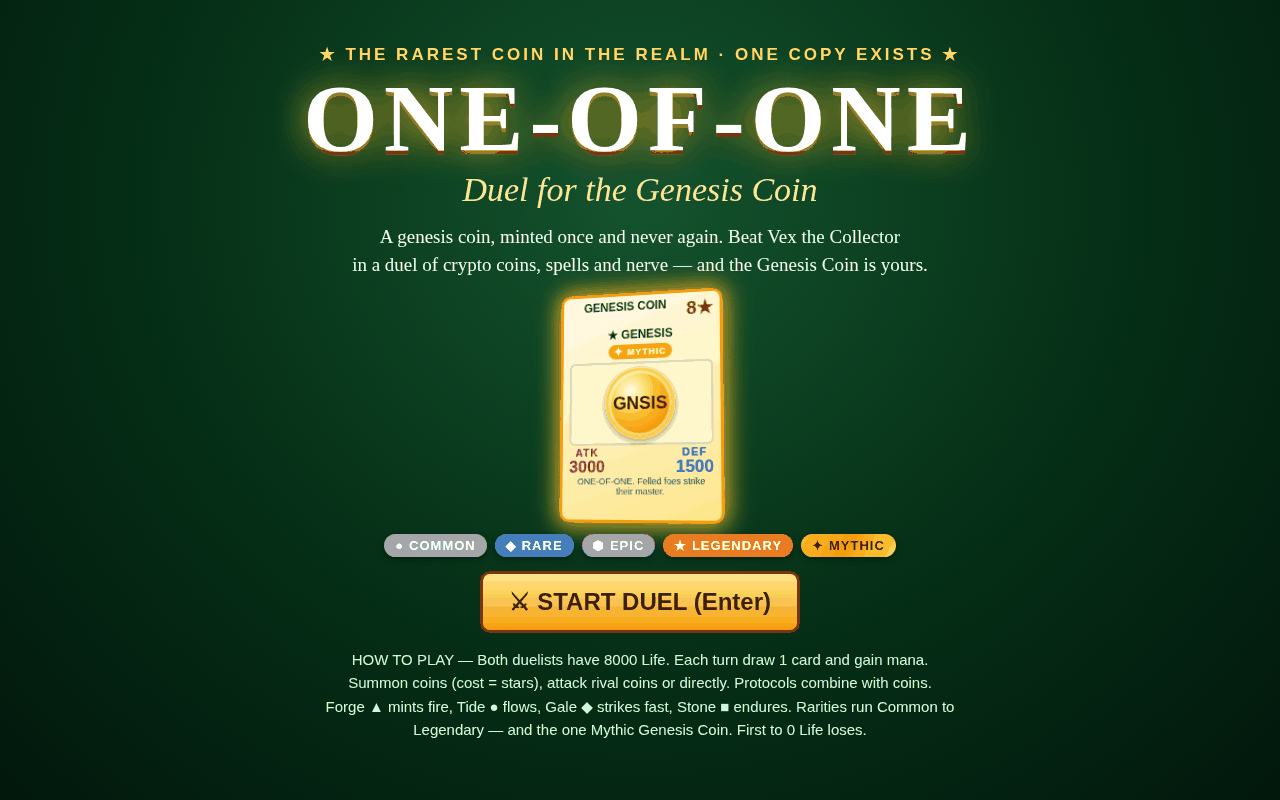
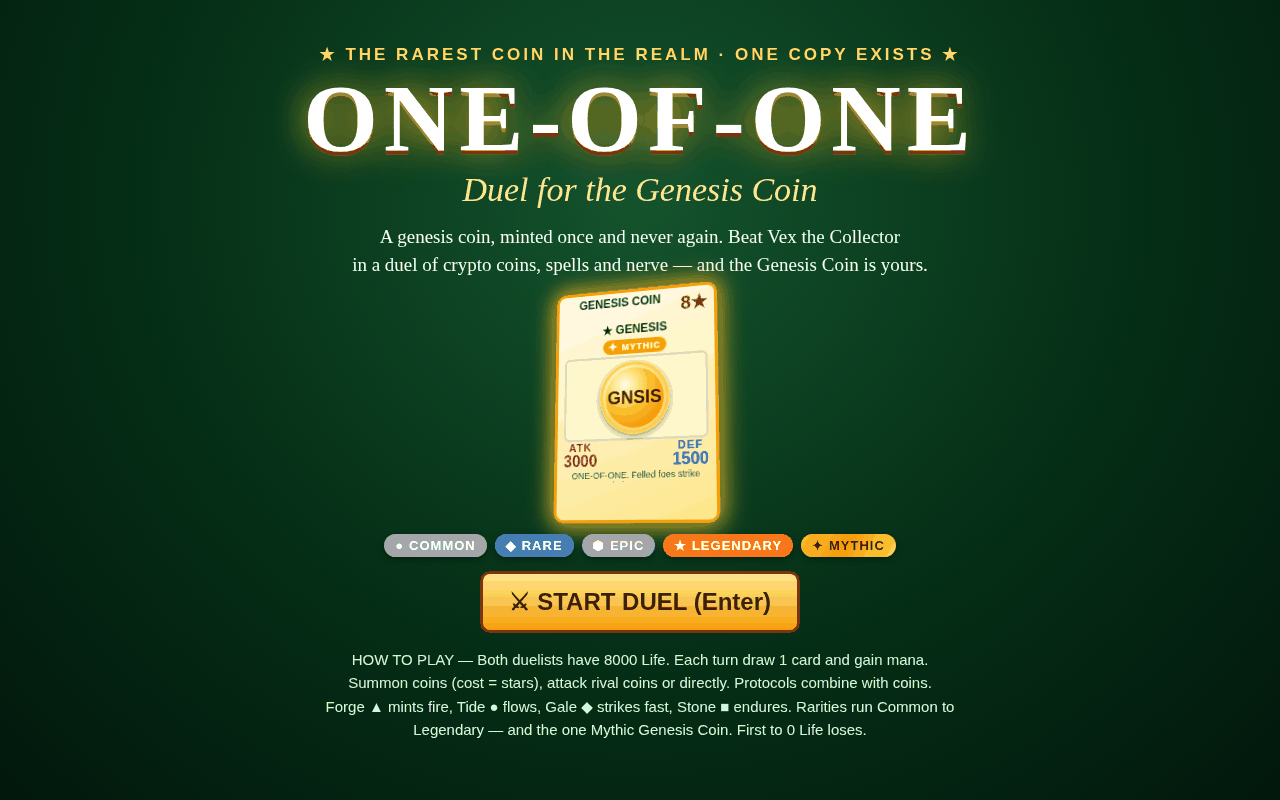
3D pass: deeper table perspective, livelier cards, ticker + Vault Shield fixes

Changed region(s): [[0.4062, 0.3125, 0.5938, 0.6562]]

diff --git a/game/style.css b/game/style.css
@@ -34,11 +34,16 @@ body { font-family: Georgia, 'Times New Roman', serif; color: #f3e9c8; }
 .intent.hidden { display: none; }
 .intent.gold { background: #713f12; border-color: #fbbf24; }
 
-/* ---- 3D table ---- */
+/* ---- 3D table: the felt is a receding plane. Perspective on the wrap,
+   rotateX on the table around its BOTTOM edge, so the near side (your hand)
+   stays put at full size while the far side (rival) shrinks away — a real
+   depth cue, with no overflow past the frame. */
 #table-wrap { flex: 1; display: flex; gap: 10px; padding: 2px 16px 6px; min-height: 0;
-  perspective: 1400px; }
+  perspective: 820px; }
 #table { flex: 1; display: flex; flex-direction: column; min-width: 0;
-  transform-style: preserve-3d; }
+  transform-style: preserve-3d; transform: rotateX(10deg); transform-origin: 50% 100%;
+  /* warm horizon glow at the far end of the felt */
+  background: radial-gradient(ellipse 70% 20% at 50% 0%, rgba(255,215,106,.16), transparent 70%); }
 .row-label { font-size: 11px; letter-spacing: 2px; font-weight: bold; color: #fde68a;
   font-family: Arial, sans-serif; margin: 0 2px; }
 .row-label span { color: #d1fae5; letter-spacing: 0; font-weight: normal; }
@@ -59,8 +64,8 @@ body { font-family: Georgia, 'Times New Roman', serif; color: #f3e9c8; }
 
 /* ---- 3D cards ---- */
 .card { width: 120px; height: 164px; border-radius: 10px; background: #fff8e7; color: #1c1917;
-  border: 3px solid #78350f; padding: 5px 7px; position: relative; cursor: pointer;
-  font-family: Arial, sans-serif; flex: none; box-shadow: 0 4px 10px rgba(0,0,0,.5);
+  border: 3px solid #78350f; padding: 4px 7px; position: relative; cursor: pointer;
+  font-family: Arial, sans-serif; flex: none; box-shadow: 0 10px 22px rgba(0,0,0,.55);
   transform-style: preserve-3d; transition: transform .22s ease, box-shadow .22s ease;
   overflow: hidden;
   animation: dealIn .45s ease-out; }
@@ -69,6 +74,10 @@ body { font-family: Georgia, 'Times New Roman', serif; color: #f3e9c8; }
 .card:hover { transform: translateY(-10px) rotateX(-10deg) rotateY(6deg);
   box-shadow: 0 16px 24px rgba(0,0,0,.6); }
 .card.selected { outline: 4px solid #fbbf24; transform: translateY(-10px) rotateX(-8deg) rotateY(-6deg); }
+/* Mouse-follow tilt (input.js sets --mx/--my on the hovered card): the card
+   leans toward the cursor, so the 3D is alive in play, not a frozen pose. */
+.card.tilt { transform: translateY(-10px) rotateX(calc(var(--my, 0) * -12deg)) rotateY(calc(var(--mx, 0) * 12deg));
+  box-shadow: 0 18px 28px rgba(0,0,0,.6); }
 .card.can-attack { outline: 3px solid #22c55e; }
 .card.targetable { outline: 3px dashed #ef4444; cursor: crosshair; }
 .card.exhausted { opacity: .62; }
@@ -76,32 +85,38 @@ body { font-family: Georgia, 'Times New Roman', serif; color: #f3e9c8; }
 @keyframes lunge { 0% { transform: none; } 40% { transform: translateY(-26px) scale(1.06); }
   100% { transform: none; } }
 /* The mythic coin on the field: tilted toward the viewer, glowing. */
-.card.hero-3d { transform: rotateX(7deg) rotateY(-12deg) translateZ(26px); }
-.card.hero-3d:hover { transform: rotateX(2deg) rotateY(-14deg) translateZ(34px); }
+.card.hero-3d { transform: rotateX(10deg) rotateY(-16deg) translateZ(30px); }
+.card.hero-3d:hover { transform: rotateX(4deg) rotateY(-18deg) translateZ(38px); }
 .card.lost-coin { filter: grayscale(.85) brightness(.6); transform: rotateX(10deg) rotateY(14deg); }
 .card .c-cost { position: absolute; top: 4px; right: 6px; font-size: 19px; font-weight: 900; color: #92400e; }
 .card .c-name { font-size: 12px; font-weight: 900; line-height: 1.1; min-height: 26px; padding-right: 32px; }
-.card .c-elem { font-size: 12px; font-weight: bold; margin-top: 2px; }
+.card .c-elem { font-size: 12px; font-weight: bold; margin-top: 1px; }
 /* Rarity badge: colour AND shape, never text alone. */
-.card .c-rarity { display: inline-flex; align-items: center; gap: 4px; margin-top: 2px;
+.card .c-rarity { display: inline-flex; align-items: center; gap: 4px; margin-top: 1px;
   padding: 1px 6px; border-radius: 20px; font-size: 9px; font-weight: 900; letter-spacing: 1px;
   color: #fff; background: var(--rar, #9ca3af); }
 .card .c-rarity .rar-glyph { font-size: 11px; }
-.card .c-art { height: 38px; border-radius: 6px; margin-top: 3px; display: flex; align-items: center;
+/* The art box is TALLER than the coin disc, so the disc (and its ticker)
+   is fully contained — never clipped by the stats row below it. */
+.card .c-art { height: 46px; border-radius: 6px; margin-top: 2px; display: flex; align-items: center;
   justify-content: center; font-size: 36px; background: #fef3c7; border: 2px solid rgba(0,0,0,.15); }
 /* The coin face: a metallic disc stamped with the ticker. */
-.coin-disc { width: 46px; height: 46px; border-radius: 50%; display: flex; align-items: center;
-  justify-content: center; font-size: 11px; font-weight: 900; letter-spacing: 0; white-space: nowrap; line-height: 1; color: #451a03;
+.coin-disc { width: 40px; height: 40px; border-radius: 50%; display: flex; align-items: center;
+  justify-content: center; font-size: 10px; font-weight: 900; letter-spacing: 0; white-space: nowrap; line-height: 1; color: #451a03;
   background: radial-gradient(circle at 35% 30%, #f8fafc, #cbd5e1 55%, #64748b);
   border: 3px solid rgba(0,0,0,.3);
   box-shadow: inset 0 0 0 3px rgba(255,255,255,.45), 0 2px 6px rgba(0,0,0,.4); }
 .coin-disc .coin-ticker { display: block; width: 100%; text-align: center; }
-.card .c-stats { display: flex; justify-content: space-between; margin-top: 2px; font-size: 17px; font-weight: 900; }
+.card .c-stats { display: flex; justify-content: space-between; margin-top: 1px; font-size: 16px; font-weight: 900; }
+/* Spell label: small, purple, centred — the art is the star, not the word. */
+.card .c-stats .spell-tag { font-size: 11px; font-weight: 900; letter-spacing: 1px; color: #7c3aed; }
+.card.el-spell .c-stats { justify-content: center; }
+.card.el-spell .c-art { font-size: 42px; }
 .card .c-stats span { display: flex; flex-direction: column; line-height: 1; }
 .card .c-stats span i { font-size: 11px; font-style: normal; letter-spacing: 1px; }
 .card .c-stats .atk { color: #b91c1c; }
 .card .c-stats .def { color: #1d4ed8; }
-.card .c-text { font-size: 9px; line-height: 1.1; color: #44403c; margin-top: 2px; max-height: 20px; overflow: hidden; }
+.card .c-text { font-size: 9px; line-height: 1.1; color: #44403c; margin-top: 2px; max-height: 11px; overflow: hidden; }
 .card .c-key { position: absolute; bottom: 3px; right: 6px; font-size: 11px; color: #a8a29e; font-weight: bold; }
 /* family colours + shapes: told by colour AND shape, never text alone */
 .card.el-forge { border-color: #dc2626; } .card.el-forge .c-art { background: #fee2e2; }
@@ -124,27 +139,33 @@ body { font-family: Georgia, 'Times New Roman', serif; color: #f3e9c8; }
   color: #451a03; border-color: #fde047; }
 /* hand cards are bigger for thumbnail legibility */
 #you-hand .card { width: 142px; height: 164px; }
-#you-hand .card .c-art { height: 38px; font-size: 40px; }
-#you-hand .card .coin-disc { width: 52px; height: 52px; font-size: 11px; line-height: 1; }
+#you-hand .card .c-art { height: 48px; font-size: 40px; }
+#you-hand .card .coin-disc { width: 44px; height: 44px; font-size: 11px; line-height: 1; }
+#you-hand .card .c-stats { font-size: 19px; }
 #you-hand .card .c-name { font-size: 15px; }
 #you-hand .card .c-stats { font-size: 20px; }
 /* frozen 3D poses for staged screenshots: deterministic, no animation */
 body.shot .card, body.shot .card-back, body.shot .lp-fill { animation: none !important; transition: none; }
-body.shot #you-hand .card:nth-child(1) { transform: rotateZ(-2deg); }
-body.shot #you-hand .card:nth-child(2) { transform: rotateZ(-1deg); }
-body.shot #you-hand .card:nth-child(3) { transform: rotateZ(1deg); }
-body.shot #you-hand .card:nth-child(4) { transform: rotateZ(2deg); }
-body.shot #you-field .card { transform: rotateX(-5deg) translateZ(14px); }
-body.shot #you-field .card.hero-3d { transform: rotateX(6deg) rotateY(-14deg) translateZ(30px); }
-body.shot #rival-field .card { transform: rotateX(6deg) translateZ(6px); }
-body.shot .card-back:nth-child(2) { transform: rotateY(6deg); }
+/* frozen 3D poses for staged screenshots: deterministic, no animation.
+   The hand is a real arc (edges back and up, middle forward), and the third
+   hand card is caught mid-flip, dealing into the hand. */
+body.shot #you-hand .card:nth-child(1) { transform: rotateZ(-7deg) translateY(8px); }
+body.shot #you-hand .card:nth-child(2) { transform: rotateZ(-2.5deg) translateZ(12px); }
+body.shot #you-hand .card:nth-child(3) { transform: translateY(-26px) rotateY(55deg) rotateX(-6deg) translateZ(24px); }
+body.shot #you-hand .card:nth-child(4) { transform: rotateZ(7deg) translateY(8px); }
+body.shot #you-field .card { transform: rotateX(-7deg) translateZ(22px); }
+body.shot #you-field .card.hero-3d { transform: rotateX(8deg) rotateY(-18deg) translateZ(38px); }
+body.shot #rival-field .card { transform: rotateX(10deg) translateZ(8px); }
+body.shot .card-back:nth-child(1) { transform: rotateY(-14deg) translateZ(6px); }
+body.shot .card-back:nth-child(2) { transform: rotateY(10deg) translateZ(6px); }
 .card-back { width: 76px; height: 102px; border-radius: 8px; background: repeating-linear-gradient(45deg,#7f1d1d 0 10px,#991b1b 10px 20px);
   border: 3px solid #fbbf24; display: flex; align-items: center; justify-content: center;
   font-size: 34px; color: #fde68a; box-shadow: 0 3px 8px rgba(0,0,0,.5);
   transform: rotateY(-8deg); transform-style: preserve-3d; }
 .field-slot { width: 120px; height: 164px; border-radius: 10px; border: 3px dashed rgba(255,255,255,.35);
   display: flex; align-items: center; justify-content: center; color: rgba(255,255,255,.5);
-  font-size: 15px; font-family: Arial, sans-serif; transform: translateZ(4px); }
+  font-size: 15px; font-family: Arial, sans-serif; transform: translateZ(4px);
+  box-shadow: 0 8px 16px rgba(0,0,0,.45), inset 0 2px 10px rgba(0,0,0,.4); }
 .field-slot.playable { border-color: #fbbf24; color: #fde68a; cursor: pointer; }
 
 /* ---- sidebar ---- */
@@ -176,7 +197,7 @@ body.shot .card-back:nth-child(2) { transform: rotateY(6deg); }
 .title-blurb { font-size: 19px; line-height: 1.45; margin: 4px 0 12px; color: #ecfdf5; }
 #title-genesis { display: flex; justify-content: center; margin-bottom: 12px; perspective: 800px; }
 #title-genesis .card { width: 168px; height: 232px; cursor: default;
-  transform: rotateX(6deg) rotateY(-14deg); }
+  transform: rotateX(9deg) rotateY(-18deg) translateZ(18px); }
 #title-genesis .card .c-art { height: 84px; font-size: 58px; }
 #title-genesis .card .coin-disc { width: 72px; height: 72px; font-size: 18px; }
 #rarity-legend { display: flex; gap: 8px; justify-content: center; margin-bottom: 14px; }

diff --git a/game/src/input.js b/game/src/input.js
@@ -112,6 +112,23 @@ export function createInput(duel, render, callbacks) {
   document.getElementById('btn-restart').addEventListener('click', () => callbacks.onRestart());
   document.getElementById('btn-start').addEventListener('click', () => callbacks.onStart());
 
+  // Mouse-follow 3D tilt: the hovered card leans toward the cursor.
+  const tableWrap = document.getElementById('table-wrap');
+  if (tableWrap) {
+    tableWrap.addEventListener('mousemove', (event) => {
+      const hovered = event.target.closest('.card');
+      document.querySelectorAll('.card.tilt').forEach((c) => { if (c !== hovered) c.classList.remove('tilt'); });
+      if (!hovered) return;
+      const r = hovered.getBoundingClientRect();
+      hovered.style.setProperty('--mx', (((event.clientX - r.left) / r.width - 0.5) * 2).toFixed(2));
+      hovered.style.setProperty('--my', (((event.clientY - r.top) / r.height - 0.5) * 2).toFixed(2));
+      hovered.classList.add('tilt');
+    });
+    tableWrap.addEventListener('mouseleave', () => {
+      document.querySelectorAll('.card.tilt').forEach((c) => c.classList.remove('tilt'));
+    });
+  }
+
   window.addEventListener('keydown', (event) => {
     if (event.key >= '1' && event.key <= '5') {
       ui.onHandCard(Number(event.key) - 1);

diff --git a/game/src/cards.js b/game/src/cards.js
@@ -49,7 +49,7 @@ export const ROSTER = [
 export const SPELLS = [
   { id: 'mint-surge', name: 'Mint Surge', ticker: 'MNT', el: 'spell', stars: 1, atk: 0, def: 0, art: '✦', rarity: 'rare', text: 'PROTOCOL: one of your coins gets +600 ATK.', copies: 2, spell: 'spark' },
   { id: 'flash-dump', name: 'Flash Dump', ticker: 'FLSH', el: 'spell', stars: 2, atk: 0, def: 0, art: '💥', rarity: 'rare', text: 'PROTOCOL: deal 800 damage straight to the rival.', copies: 2, spell: 'burst' },
-  { id: 'vault-shield', name: 'Vault Shield', ticker: 'VLT', el: 'spell', stars: 2, atk: 0, def: 0, art: '🧱', rarity: 'rare', text: 'PROTOCOL: one of your coins gets +800 DEF.', copies: 2, spell: 'wall' },
+  { id: 'vault-shield', name: 'Vault Shield', ticker: 'VLT', el: 'spell', stars: 2, atk: 0, def: 0, art: '🛡', rarity: 'rare', text: 'PROTOCOL: one of your coins gets +800 DEF.', copies: 2, spell: 'wall' },
   { id: 'chain-rewind', name: 'Chain Rewind', ticker: 'RWND', el: 'spell', stars: 2, atk: 0, def: 0, art: '💨', rarity: 'rare', text: 'PROTOCOL: send one rival coin back to its hand.', copies: 2, spell: 'gust' },
 ];
 

diff --git a/game/src/render.js b/game/src/render.js
@@ -46,9 +46,11 @@ export function cardElement(entry, opts = {}) {
   badge.appendChild(el('span', 'rar-label', rare.label));
   node.appendChild(badge);
   if (card.spell) {
+    // Spell art is the effect first (a shield for Vault Shield); the
+    // PROTOCOL label is small — it must never outshout the art.
     node.appendChild(el('div', 'c-art', card.art));
     const stats = el('div', 'c-stats');
-    stats.appendChild(el('span', 'atk', 'PROTOCOL'));
+    stats.appendChild(el('span', 'spell-tag', '✦ PROTOCOL'));
     node.appendChild(stats);
   } else {
     // The coin face: a metallic disc stamped with the coin's ticker.
